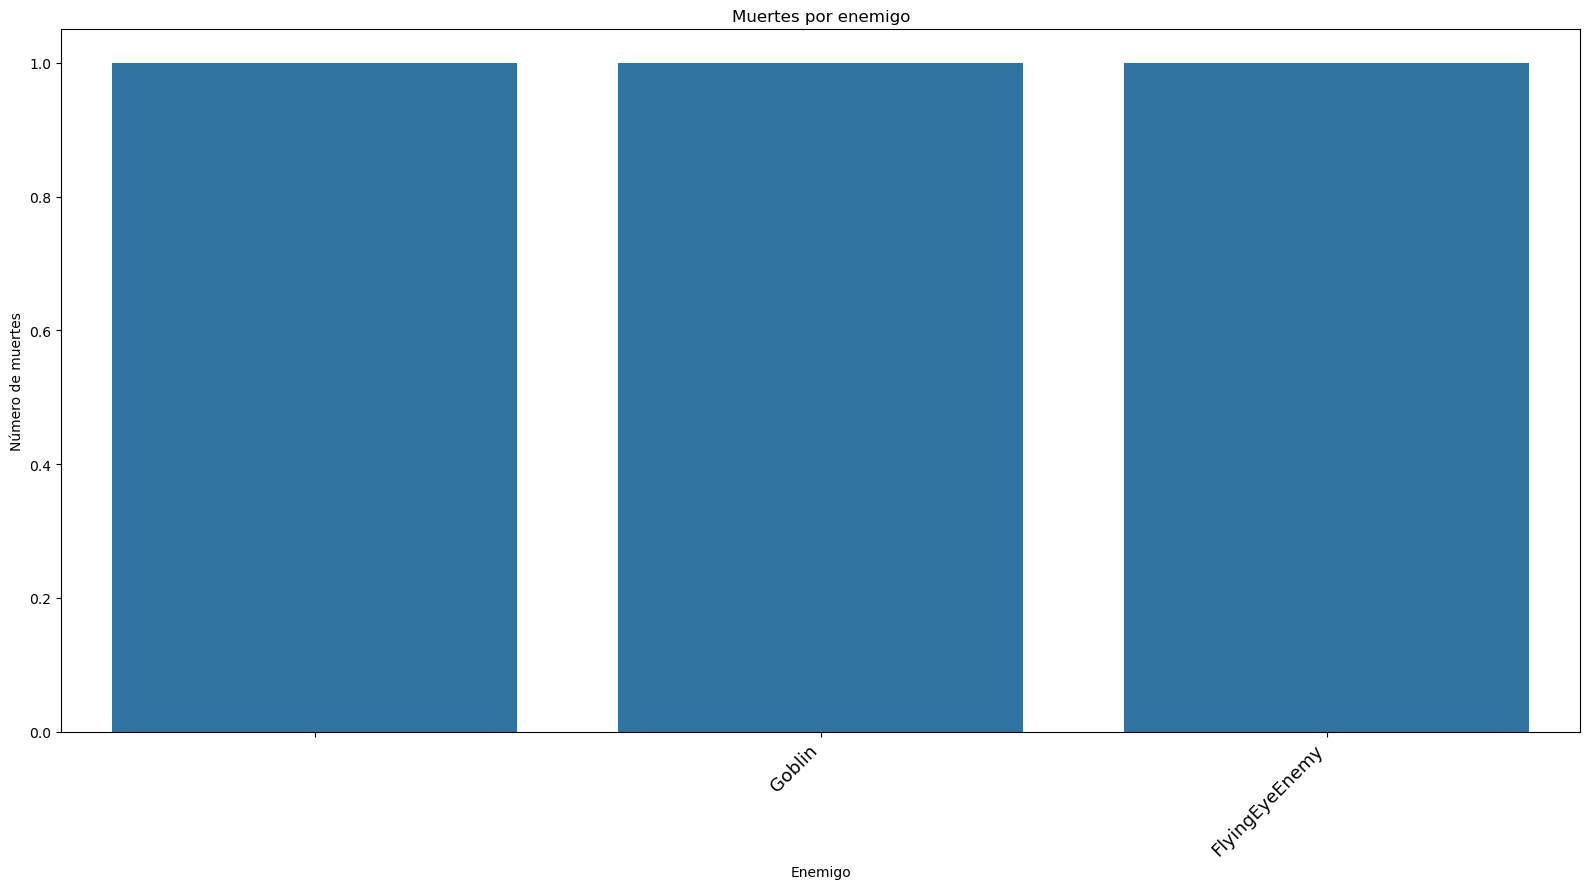
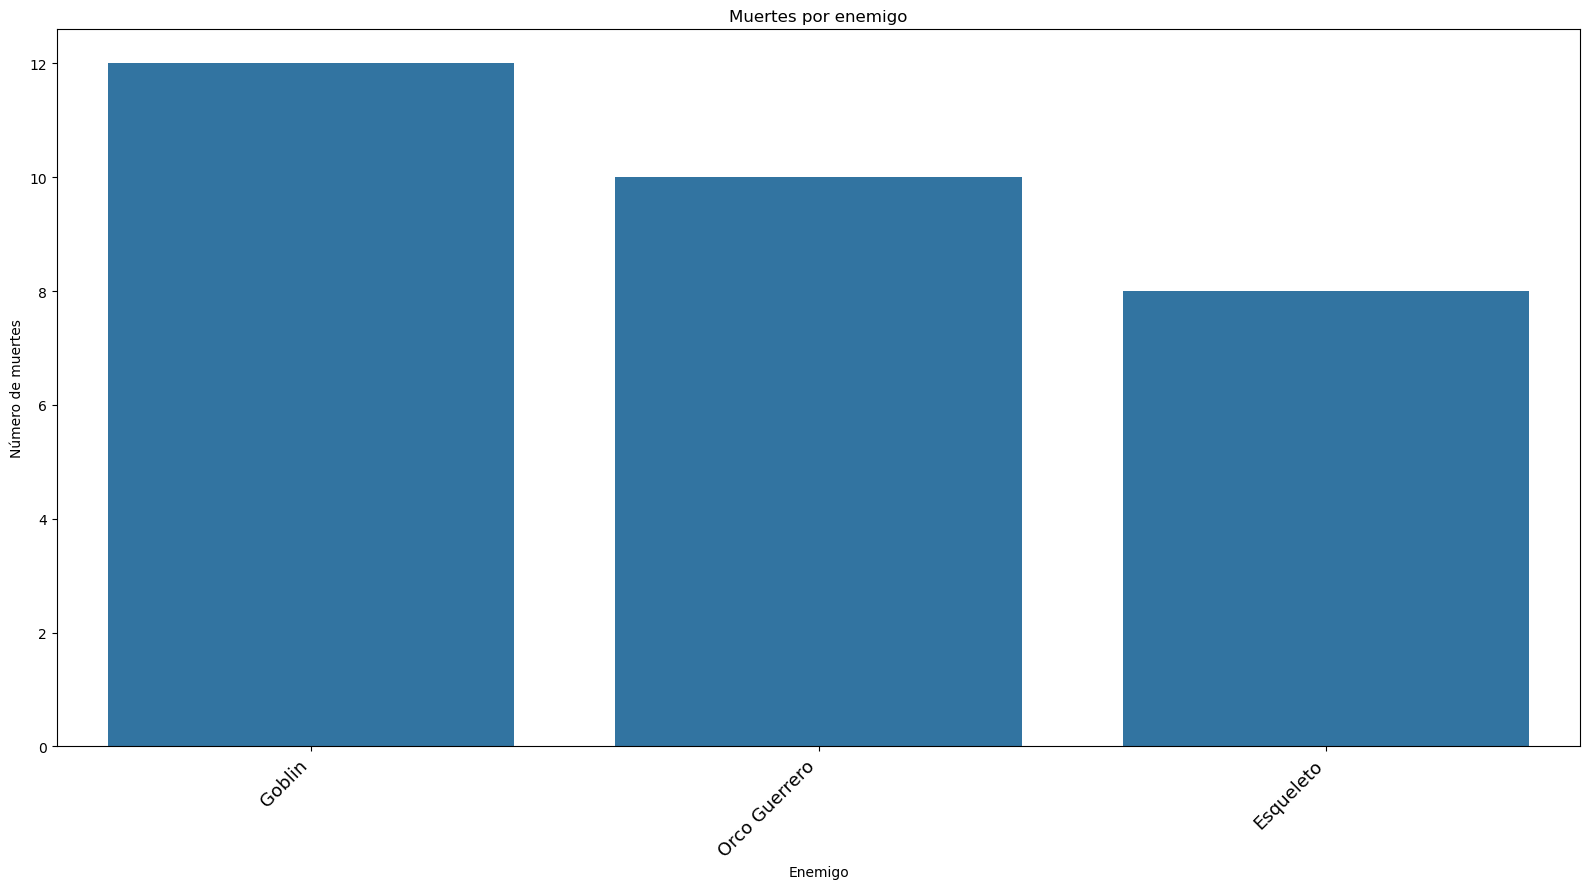
cambios de pol puestos

diff --git a/backend/index.js b/backend/index.js
@@ -21,7 +21,8 @@ const { startBossService } = require('./routes/bossRoutes');
 const { startShopService } = require('./routes/shopRoutes');
 const { startItemService } = require('./routes/itemRoutes');
 const { startEnemyDeathStatService } = require('./routes/enemyDeathStatRoutes');
-
+const { startDownloadService } = require('./routes/downloadRoute');
+const { start } = require('repl');
 require('./routes/serviceController');
 
 require('dotenv').config({ path: './environment/.env' });
@@ -33,24 +34,25 @@ require('dotenv').config({ path: './environment/.env' });
     console.log('Conexión a la base de datos establecida correctamente.');
     await sequelize.sync({ force: false }); // 👈 esto sincroniza los modelos con la DB
     // Iniciar microservicios
-    //startPlayerService();
+    //tartPlayerService();
     //startGameService();
     //startInventoryService();
     startUserService();
+    startDownloadService();
     //startEnemyDeathStatService();
     //startEnemyService();
     //startBossService();
     //startShopService();
     //startItemService();
     
-    //await seedItems(); // 👈 esto inserta los items en la DB
-    //await seedGames(); // 👈 esto inserta los juegos en la DB
-    //await seedPlayers(); // 👈 esto inserta los jugadores en la DB
-    //await seedEnemies(); // 👈 esto inserta los enemigos en la DB
-    //await seedBosses(); // 👈 esto inserta los jefes en la DB
+    await seedItems(); // 👈 esto inserta los items en la DB
+    await seedGames(); // 👈 esto inserta los juegos en la DB
+    await seedPlayers(); // 👈 esto inserta los jugadores en la DB
+    await seedEnemies(); // 👈 esto inserta los enemigos en la DB
+    await seedBosses(); // 👈 esto inserta los jefes en la DB
     //await seedInventory(); // 👈 esto inserta los inventarios en la DB
     //await seedShop(); // 👈 esto inserta los tiendas en la DB
-    //await seedEnemyDeathStats(); // 👈 esto inserta las estadísticas de muertes en la DB
+    await seedEnemyDeathStats(); // 👈 esto inserta las estadísticas de muertes en la DB
     console.log('Todos los servicios iniciados correctamente');
   } catch (error) {
     console.error('Error:', error);

diff --git a/backend/routes/downloadRoute.js b/backend/routes/downloadRoute.js
@@ -1,0 +1,34 @@
+const express = require('express');
+const cors = require('cors');
+const path = require('path');
+const archiver = require('archiver');
+
+const startDownloadService = () => {
+  const app = express();
+  app.use(cors());
+
+  app.get('/download-juego', (req, res) => {
+    const folderPath = path.join(__dirname, '../juegoCo');
+
+    res.setHeader('Content-Disposition', 'attachment; filename=juegoCo.zip');
+    res.setHeader('Content-Type', 'application/zip');
+
+    const archive = archiver('zip', { zlib: { level: 9 } });
+    archive.on('error', err => {
+      console.error('Error creating archive:', err);
+      res.status(500).send({ error: err.message });
+    });
+
+    archive.pipe(res);
+    archive.directory(folderPath, false);
+    archive.finalize();
+  });
+
+  const DOWNLOAD_PORT = process.env.DOWNLOAD_PORT || 3015;
+
+  app.listen(DOWNLOAD_PORT, () => {
+    console.log(`Download service running on port ${DOWNLOAD_PORT}`);
+  });
+};
+
+module.exports = { startDownloadService };

diff --git a/frontend/vuetify-project/src/components/GameView.vue b/frontend/vuetify-project/src/components/GameView.vue
@@ -85,7 +85,13 @@
   <v-icon left>mdi-login</v-icon>
   <span class="btn-text">GO TO LOGIN</span>
 </v-btn>
-
+<v-btn
+  class="login-btn"
+  @click="downloadJuegoZip"
+>
+  <v-icon left>mdi-download</v-icon>
+  <span>Download juegoCo</span>
+</v-btn>
 </div>
 </template>
 

diff --git a/backend/scripts/generate_enemy_death_stats.py b/backend/scripts/generate_enemy_death_stats.py
@@ -5,29 +5,23 @@ import matplotlib.pyplot as plt
 from datetime import datetime
 from sqlalchemy import create_engine
 
-# Load DB credentials from environment variables
 DB_NAME = os.getenv('DB_NAME')
 DB_USER = os.getenv('DB_USER')
 DB_PASS = os.getenv('DB_PASS')
 DB_HOST = os.getenv('DB_HOST')
 DB_PORT = int(os.getenv('DB_PORT', 3306))
 
-# Output directory for generated images
 OUTPUT_DIR = os.path.join(os.path.dirname(__file__), '../stat_images')
 os.makedirs(OUTPUT_DIR, exist_ok=True)
 
-# Create SQLAlchemy engine for MySQL
 engine = create_engine(f"mysql+pymysql://{DB_USER}:{DB_PASS}@{DB_HOST}:{DB_PORT}/{DB_NAME}")
 
-# Query enemy death stats
 df = pd.read_sql('SELECT * FROM enemy_death_stat', engine)
-
 print(f"[enemy-death-stats] Filas encontradas en enemy_death_stat: {len(df)}")
 
+### 1. Muertes por enemigo
 img_path = os.path.join(OUTPUT_DIR, 'deaths_per_enemy.png')
-
-# Example plot: deaths per enemy
-if not df.empty:
+if not df.empty and 'enemy_name' in df.columns:
     plt.figure(figsize=(16, 9))
     ax = sns.countplot(data=df, x='enemy_name', order=df['enemy_name'].value_counts().index)
     plt.title('Muertes por enemigo')
@@ -40,36 +34,21 @@ if not df.empty:
     plt.close()
     print(f"[enemy-death-stats] Imagen guardada en: {img_path}")
 else:
-    # Guardar imagen vacía para comprobar que la ruta funciona
-    plt.figure(figsize=(10, 5))
-    plt.text(0.5, 0.5, 'No hay datos', fontsize=22, ha='center', va='center')
-    plt.axis('off')
-    plt.tight_layout()
-    plt.savefig(img_path)
-    plt.close()
-    print(f"[enemy-death-stats] No hay datos. Imagen vacía guardada en: {img_path}")
+    print("[enemy-death-stats] No se encontró la columna 'enemy_name' o el DataFrame está vacío.")
 
-# Gráfico 2: Muertes por día (línea)
-if not df.empty:
-    date_col = None
-    for col in ['fecha', 'date', 'created_at', 'death_time']:
-        if col in df.columns:
-            date_col = col
-            break
-    if date_col:
-        plt.figure(figsize=(10, 6))
-        df[date_col] = pd.to_datetime(df[date_col])
-        deaths_per_day = df.groupby(df[date_col].dt.date).size()
-        import matplotlib.dates as mdates
-        plt.figure(figsize=(16, 9))
-        # Formatea las fechas como 'dd/mm' para el eje X
+### 2. Muertes por día
+img_path_day = os.path.join(OUTPUT_DIR, 'deaths_per_day.png')
+if not df.empty and 'death_time' in df.columns:
+    df['death_time'] = pd.to_datetime(df['death_time'])
+    deaths_per_day = df.groupby(df['death_time'].dt.date).size()
+    if not deaths_per_day.empty:
         formatted_dates = [d.strftime('%d/%m') for d in deaths_per_day.index]
+        plt.figure(figsize=(16, 9))
         plt.plot(formatted_dates, deaths_per_day.values, marker='o', color='crimson', linewidth=2)
         plt.title('Muertes por día')
         plt.ylabel('Número de muertes')
         plt.xlabel('Día')
         plt.grid(True, linestyle='--', alpha=0.5)
-        # Solo muestra cada N etiqueta, dependiendo de cuántas fechas haya
         N = max(1, len(formatted_dates)//8)
         for i, label in enumerate(plt.gca().get_xticklabels()):
             if i % N != 0:
@@ -77,44 +56,42 @@ if not df.empty:
         plt.xticks(rotation=45, ha='right', fontsize=13)
         plt.subplots_adjust(bottom=0.28)
         plt.tight_layout()
-        img_path_day = os.path.join(OUTPUT_DIR, 'deaths_per_day.png')
         plt.savefig(img_path_day, bbox_inches='tight')
         plt.close()
         print(f"[enemy-death-stats] Imagen guardada en: {img_path_day}")
     else:
-        print("[enemy-death-stats] No se encontró columna de fecha para muertes por día.")
+        print("[enemy-death-stats] No hay datos para la gráfica de muertes por día.")
+else:
+    print("[enemy-death-stats] No se encontró columna 'death_time'.")
 
-# Gráfico 3: Muertes por usuario/jugador (tarta/pie)
-if not df.empty:
-    user_col = None
-    for col in ['user_id', 'player_name', 'jugador', 'usuario', 'player_nickname']:
-        if col in df.columns:
-            user_col = col
-            break
-    if user_col:
-        plt.figure(figsize=(8, 8))
-        death_counts = df[user_col].value_counts()
+### 3. Muertes por usuario
+img_path_user = os.path.join(OUTPUT_DIR, 'deaths_per_user.png')
+if 'nickname' in df.columns:
+    death_counts = df['nickname'].dropna().value_counts()
+    if not death_counts.empty:
         plt.figure(figsize=(12, 12))
         plt.pie(death_counts.values, labels=death_counts.index, autopct='%1.1f%%', startangle=140, colors=sns.color_palette('pastel'), textprops={'fontsize': 15})
         plt.title('Proporción de muertes por usuario/jugador')
         plt.tight_layout()
-        img_path_user = os.path.join(OUTPUT_DIR, 'deaths_per_user.png')
         plt.savefig(img_path_user, bbox_inches='tight')
         plt.close()
         print(f"[enemy-death-stats] Imagen guardada en: {img_path_user}")
     else:
-        print("[enemy-death-stats] No se encontró columna de usuario/jugador para muertes por usuario.")
+        plt.figure(figsize=(10, 5))
+        plt.text(0.5, 0.5, 'No hay datos de usuarios', fontsize=22, ha='center', va='center')
+        plt.axis('off')
+        plt.tight_layout()
+        plt.savefig(img_path_user)
+        plt.close()
+        print(f"[enemy-death-stats] No hay datos. Imagen de usuarios vacía generada.")
+else:
+    print("[enemy-death-stats] No se encontró columna 'nickname'.")
 
-# Gráfico 4: Muertes por boss (barras horizontales)
-if not df.empty:
-    boss_col = None
-    for col in ['boss_name', 'jefe']:
-        if col in df.columns:
-            boss_col = col
-            break
-    if boss_col:
-        plt.figure(figsize=(10, 6))
-        death_counts = df[boss_col].value_counts()
+### 4. Muertes por boss
+img_path_boss = os.path.join(OUTPUT_DIR, 'deaths_per_boss.png')
+if 'bossName' in df.columns:
+    death_counts = df['bossName'].dropna().value_counts()
+    if not death_counts.empty:
         plt.figure(figsize=(16, 9))
         plt.barh(death_counts.index, death_counts.values, color=sns.color_palette('muted'))
         plt.title('Muertes por boss')
@@ -123,10 +100,16 @@ if not df.empty:
         plt.yticks(fontsize=13)
         plt.subplots_adjust(left=0.28)
         plt.tight_layout()
-        img_path_boss = os.path.join(OUTPUT_DIR, 'deaths_per_boss.png')
         plt.savefig(img_path_boss, bbox_inches='tight')
         plt.close()
         print(f"[enemy-death-stats] Imagen guardada en: {img_path_boss}")
     else:
-        print("[enemy-death-stats] No se encontró columna de boss para muertes por boss.")
-
+        plt.figure(figsize=(10, 5))
+        plt.text(0.5, 0.5, 'No hay datos de bosses', fontsize=22, ha='center', va='center')
+        plt.axis('off')
+        plt.tight_layout()
+        plt.savefig(img_path_boss)
+        plt.close()
+        print(f"[enemy-death-stats] No hay datos. Imagen de boss vacía generada.")
+else:
+    print("[enemy-death-stats] No se encontró columna 'bossName'.")
